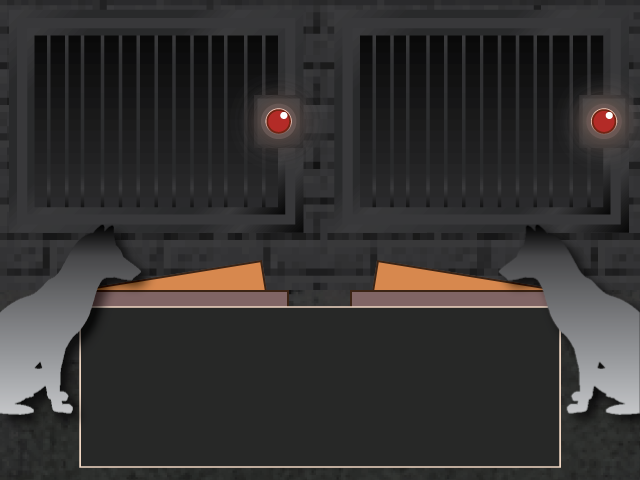
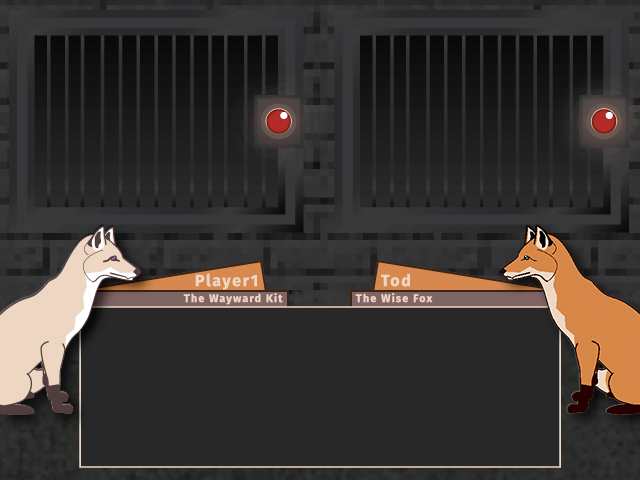
BG upgrades with visual foxes

diff --git a/Outfox/js/main.js b/Outfox/js/main.js
@@ -13,7 +13,7 @@ var logoSound;
 var startScene = 0;
 var panelTime = 4;
 var scene;
-var scenes = [{key:"BFF00"},{key:"BFF01"},{key:"BFF01"},{key:"BFF02"},{key:"BFF03"},{key:"BFF05"},{key:"BFF06"},{key:"BFF07"},{key:"BFF08"},{key:"BFF09"},{key:"BFF09"},{key:"BFF07"},{key:"BFF11"},{key:"BFF12"}];
+var scenes = [{key:"BFF00"},{key:"BFF01"},{key:"BFF01"},{key:"BFF02"},{key:"BFF03"},{key:"BFF05"},{key:"BFF06"},{key:"BFF07"},{key:"BFF08"},{key:"BFF09"},{key:"BFF09"},{key:"BFF09"},{key:"BFF11"},{key:"BFF12"}];
 var talkText;
 var logImg;
 //Array for credits: Who to display as recruited
